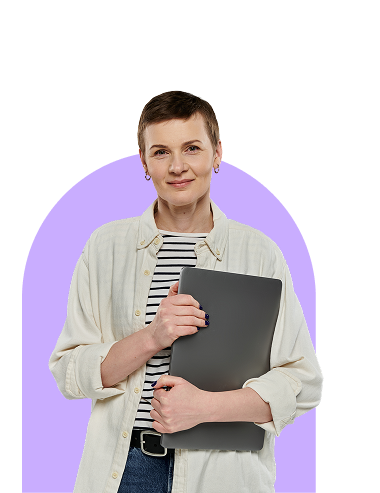
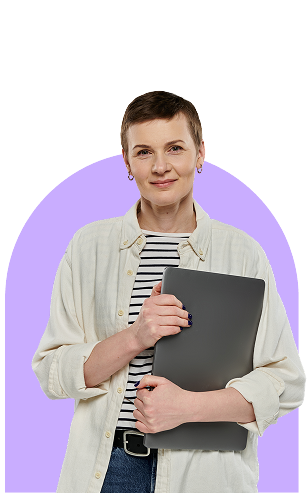
fixed login responsiveness

diff --git a/src/pages/Login.tsx b/src/pages/Login.tsx
@@ -171,22 +171,17 @@ const Login = () => {
 
       {/* Right Side: Pattern and Image - Hidden on mobile */}
       <div className="hidden px-auto md:flex w-full  md:w-1/2 lg:w-1/2  xl:w-1/2 2xl:w-1/2 bg-purpleaccent2 text-center pb-20 flex-col justify-center order-1 md:order-2">
-        <div className="h-full bg-yellow-400 items-center md:flex mx-auto ">
-          <div className="bg-green-500 ">
-            <img 
-              src={loginMainImg} 
-              alt="MainLogin Image"
-              className="xl:scale-125 2xl:scale-150"
-            />
-          </div>
-
-          <div className="h-full pt-30">
-            <img 
-              src={rgtpatternimg1}
-              className="lg:scale-125"
+            <div className="relative  flex justify-center h-fit ">
+              <img 
+                src={loginMainImg} 
+                alt="MainLogin Image"
+                className="xl:scale-130"
               />
-          </div>
-        </div>
+              <img 
+                src={rgtpatternimg1}
+                className="absolute right-1/5 md:right-1/8 top-0"
+              />
+            </div>
       </div>
 
     </div>
